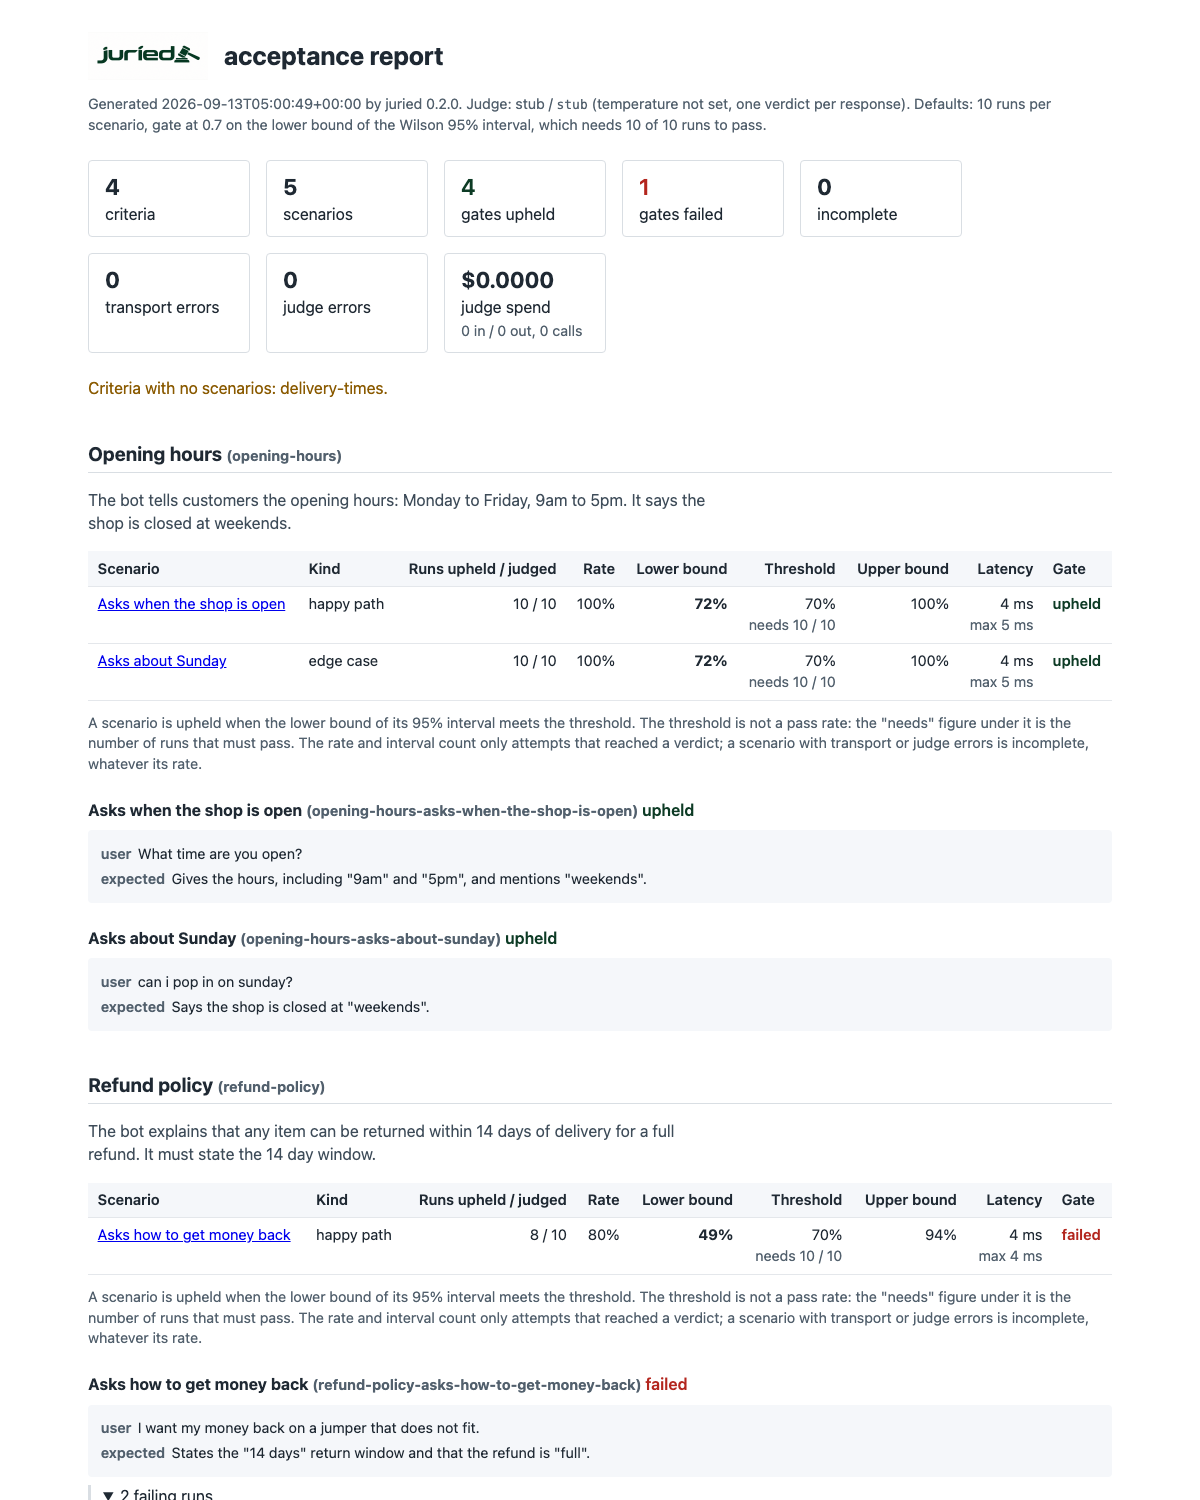
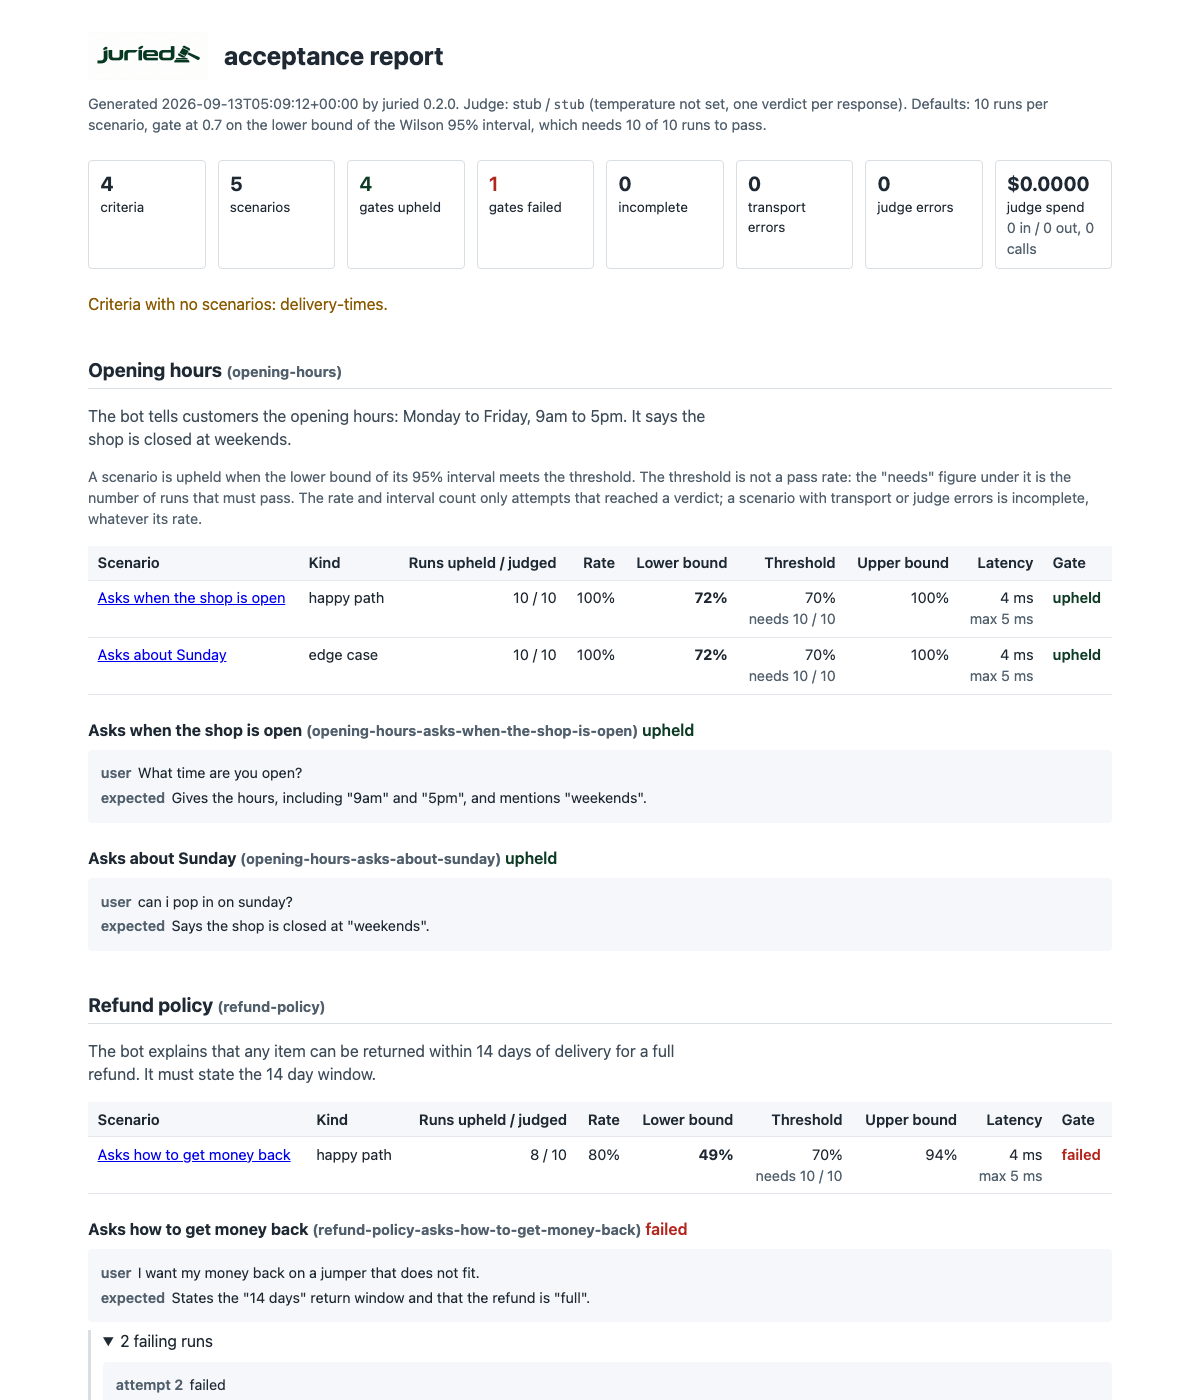
fix: one row of report tiles and the gate rule stated once
Lay the summary tiles out on a grid sized to the tile count, so the
usual eight sit on one row and nine or ten split into two even rows.
State the gate rule once above the first scenario table instead of
under every table. Refresh the screenshot.

diff --git a/src/juried/report/template.html b/src/juried/report/template.html
@@ -12,9 +12,10 @@
   h2 { font-size: 1.2rem; margin-top: 2.5rem; border-bottom: 1px solid #d9dee3; padding-bottom: 0.25rem; }
   h3 { font-size: 1rem; margin: 1.5rem 0 0.5rem; }
   .meta { color: #52606d; font-size: 0.9rem; }
-  .summary { display: flex; flex-wrap: wrap; gap: 1rem; margin: 1.5rem 0; }
-  .summary div { border: 1px solid #d9dee3; border-radius: 4px; padding: 0.6rem 1rem; min-width: 8rem; }
-  .summary strong { display: block; font-size: 1.4rem; }
+  .summary { display: grid; gap: 0.75rem; margin: 1.5rem 0; }
+  .summary div { border: 1px solid #d9dee3; border-radius: 4px; padding: 0.5rem 0.7rem; min-width: 0; font-size: 0.85rem; }
+  .summary strong { display: block; font-size: 1.25rem; }
+  @media (max-width: 48rem) { .summary { grid-template-columns: repeat(2, minmax(0, 1fr)) !important; } }
   table { border-collapse: collapse; width: 100%; margin: 0.75rem 0; font-size: 0.92rem; }
   th, td { text-align: left; padding: 0.4rem 0.6rem; border-bottom: 1px solid #e4e7eb; vertical-align: top; }
   th { background: #f5f7fa; font-weight: 600; }
@@ -45,7 +46,12 @@
   Defaults: {{ report.defaults.runs }} runs per scenario, gate at {{ report.defaults.threshold }} on the lower bound of the Wilson 95% interval{% if report.defaults.required_passes is not none %}, which needs {{ report.defaults.required_passes }} of {{ report.defaults.runs }} runs to pass{% endif %}.
 </p>
 
-<div class="summary">
+{# Eight tiles always, plus one for replayed responses and one for split verdicts when
+   they apply. Up to eight sit on one row; more split into two even rows, so no tile is
+   left orphaned on a row of its own. #}
+{% set tiles = 8 + (1 if report.summary.responses_from_cache else 0) + (1 if report.judge.votes > 1 else 0) %}
+{% set columns = tiles if tiles <= 8 else (tiles + 1) // 2 %}
+<div class="summary" style="grid-template-columns: repeat({{ columns }}, minmax(0, 1fr));">
   <div><strong>{{ report.summary.criteria }}</strong>criteria</div>
   <div><strong>{{ report.summary.scenarios }}</strong>scenarios</div>
   <div><strong class="upheld">{{ report.summary.gates_passed }}</strong>gates upheld</div>
@@ -73,6 +79,7 @@
 <p class="warn">Criteria with no scenarios: {{ report.summary.criteria_without_scenarios | join(', ') }}.</p>
 {% endif %}
 
+{% set rule = namespace(shown=false) %}
 {% for criterion in report.criteria %}
 <h2 id="{{ criterion.id }}">{{ criterion.title }} <span class="meta">({{ criterion.id }})</span></h2>
 {% if criterion.description %}
@@ -81,6 +88,10 @@
 {% if not criterion.scenarios %}
 <p class="warn">No scenarios were run for this criterion.</p>
 {% else %}
+{% if not rule.shown %}
+<p class="meta rule">A scenario is upheld when the lower bound of its 95% interval meets the threshold. The threshold is not a pass rate: the "needs" figure under it is the number of runs that must pass. The rate and interval count only attempts that reached a verdict; a scenario with transport or judge errors is incomplete, whatever its rate.</p>
+{% set rule.shown = true %}
+{% endif %}
 <table>
   <thead>
     <tr>
@@ -111,7 +122,6 @@
   {% endfor %}
   </tbody>
 </table>
-<p class="meta rule">A scenario is upheld when the lower bound of its 95% interval meets the threshold. The threshold is not a pass rate: the "needs" figure under it is the number of runs that must pass. The rate and interval count only attempts that reached a verdict; a scenario with transport or judge errors is incomplete, whatever its rate.</p>
 
 {% for scenario in criterion.scenarios %}
 <h3 id="{{ scenario.id }}">{{ scenario.name }} <span class="meta">({{ scenario.id }})</span> <span class="{{ scenario.status }}">{{ scenario.status }}</span></h3>

diff --git a/tests/test_report.py b/tests/test_report.py
@@ -166,10 +166,9 @@ def test_render_html_is_self_contained_and_escaped(tmp_path: Path) -> None:
     assert '40%<br><span class="meta">needs 3 / 3</span>' in html
     assert "which needs 19 of 20 runs to pass" in html
     assert '<th class="num">Upper bound</th>' in html
-    assert (
-        "A scenario is upheld when the lower bound of its 95% interval meets the threshold." in html
-    )
+    assert html.count("A scenario is upheld when the lower bound of its 95% interval meets") == 1
     assert ">upheld</td>" in html
+    assert 'style="grid-template-columns: repeat(8, minmax(0, 1fr));"' in html
     assert ">incomplete</td>" in html
     assert ">failed</td>" not in html
     assert '<th class="num">Runs upheld / judged</th>' in html
@@ -195,3 +194,12 @@ def test_write_reports(tmp_path: Path) -> None:
     data = json.loads(paths.json.read_text())
     assert data["summary"]["scenarios"] == 2
     assert paths.html.read_text().startswith("<!doctype html>")
+
+
+def test_optional_tiles_split_into_two_even_rows(tmp_path: Path) -> None:
+    voting = parse_config(
+        '[target]\nurl = "http://bot/chat"\n[judge]\nprovider = "stub"\nvotes = 3\n', tmp_path
+    )
+    html = render_html(build_report(voting, [HOURS, REFUNDS], results()))
+    assert "split verdicts" in html
+    assert 'style="grid-template-columns: repeat(5, minmax(0, 1fr));"' in html

diff --git a/README.md b/README.md
@@ -322,10 +322,11 @@ findings to a file.
 ## The report
 
 After a run juried writes `reports/juried-report.html` and `reports/juried-report.json`.
-The HTML is a single self contained file with no scripts. It opens with the totals, then
-lists each acceptance criterion with its description, a table of its scenarios showing
-passes, pass rate, interval, threshold, response latency and gate result, and beneath the
-table each scenario's message, expectation and every failing run with the response and
+The HTML is a single self contained file with no scripts. It opens with one row of totals,
+states the gate rule once above the first table, then lists each acceptance criterion with
+its description, a table of its scenarios showing passes over judged attempts, pass rate,
+interval, threshold with the passes it needs, response latency and gate result, and beneath
+the table each scenario's message, expectation and every failing run with the response and
 the judge's reason. Criteria with no scenarios are called out so coverage gaps are
 visible. The JSON file holds the same structure plus every attempt, for anyone who wants
 to chart trends.

diff --git a/CHANGELOG.md b/CHANGELOG.md
@@ -7,6 +7,12 @@ change between minor versions; every such change is listed under "Breaking chang
 
 ## [Unreleased]
 
+### Changed
+
+- The HTML report's totals sit on one row of tiles, or two even rows when the replay and
+  split verdict tiles apply, and the gate rule is stated once above the first table rather
+  than under every table.
+
 ## [0.2.0] - 2026-09-12
 
 ### Breaking changes
